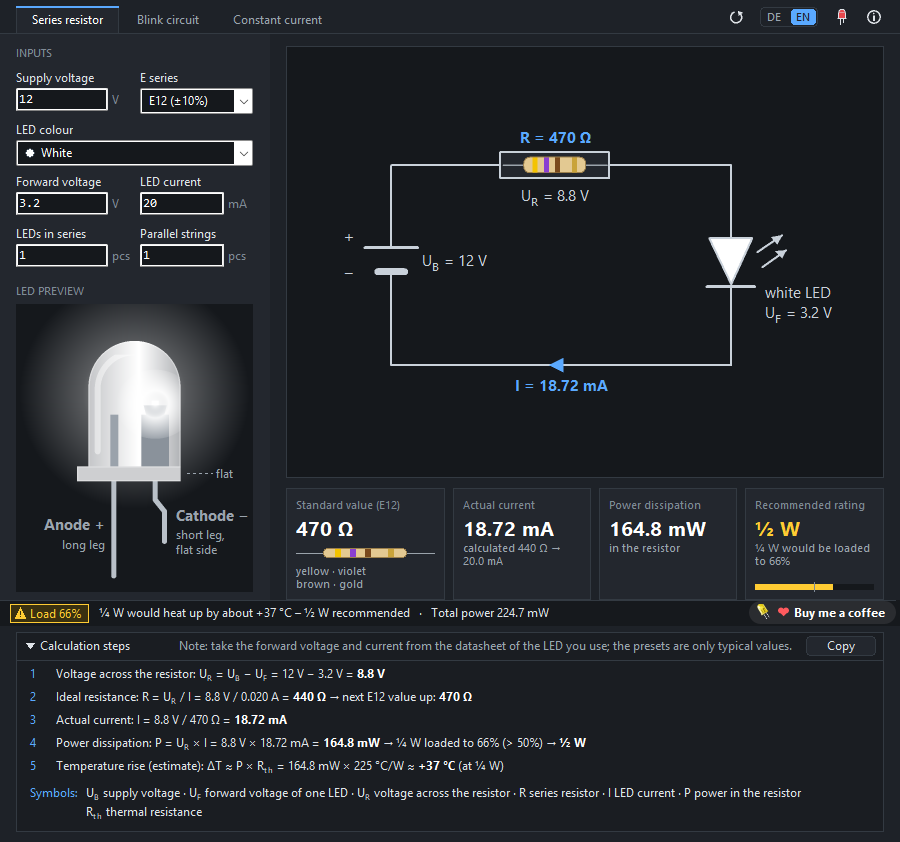
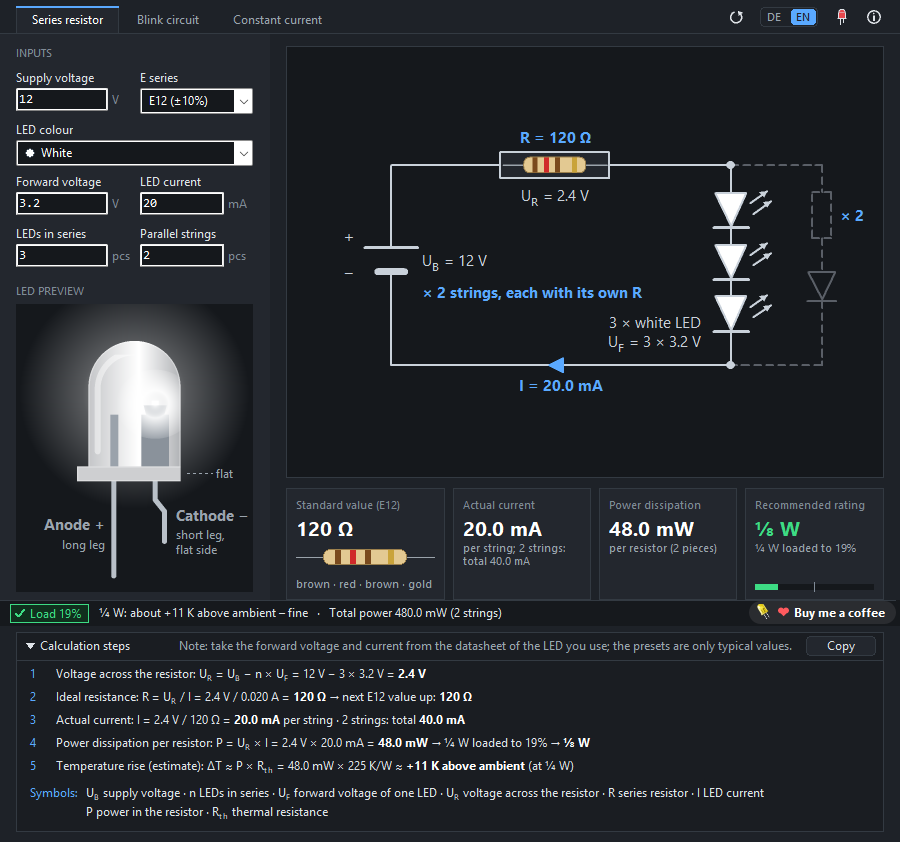
LedPreResistor 2.5: Schaltplan und Erwärmung im Text, neues Bild (#17)

diff --git a/de/index.html b/de/index.html
@@ -91,7 +91,7 @@
     <a href="https://elospeed.github.io/LedPreResistor/de/"><img src="../img/ledpreresistor.png" alt="LedPreResistor" loading="lazy"></a>
     <div>
       <h3>LedPreResistor</h3>
-      <p>Berechnet den Vorwiderstand für eine oder mehrere LEDs: Normwert aus E12, E24 oder E96, Farbringe, Verlustleistung und empfohlene Bauform, dazu eine Schätzung, wie warm er wird. Der Rechenweg zeigt die Rechnung Schritt für Schritt mit deinen eigenen Zahlen, und eine Seite über Leuchtdioden ist eingebaut. Seit 2.3 rechnet es auch Blinkschaltungen mit NE555 oder Multivibrator mit zwei Transistoren, aus den Bauteilen oder aus den gewünschten Zeiten. Seit 2.4 legt es auch Konstantstromquellen mit LM317 oder zwei Transistoren aus, für eine schwankende Speisespannung wie im Auto. Deutsch und Englisch, portabel, für Windows und als eigene Linux-Version.</p>
+      <p>Berechnet den Vorwiderstand für eine oder mehrere LEDs: Normwert aus E12, E24 oder E96, Farbringe, Verlustleistung und empfohlene Bauform, dazu eine Schätzung, wie warm er wird. Der Rechenweg zeigt die Rechnung Schritt für Schritt mit deinen eigenen Zahlen, und eine Seite über Leuchtdioden ist eingebaut. Seit 2.3 rechnet es auch Blinkschaltungen mit NE555 oder Multivibrator mit zwei Transistoren, aus den Bauteilen oder aus den gewünschten Zeiten. Seit 2.4 legt es auch Konstantstromquellen mit LM317 oder zwei Transistoren aus, für eine schwankende Speisespannung wie im Auto. Seit 2.5 zeichnet der Schaltplan LEDs in Reihe und Stränge parallel, und die Erwärmung steht als «ca. +X K über Umgebung» da. Deutsch und Englisch, portabel, für Windows und als eigene Linux-Version.</p>
       <div class="tags">LEDs · E12 / E24 / E96 · NE555 · Windows · Linux</div>
       <a class="btn" href="https://elospeed.github.io/LedPreResistor/de/">Zu LedPreResistor</a>
     </div>

diff --git a/index.html b/index.html
@@ -92,7 +92,7 @@
     <a href="https://elospeed.github.io/LedPreResistor/"><img src="img/ledpreresistor.png" alt="LedPreResistor" loading="lazy"></a>
     <div>
       <h3>LedPreResistor</h3>
-      <p>Calculates the series resistor for one or more LEDs: standard value from E12, E24 or E96, colour bands, power and recommended resistor size, with an estimate of how warm it gets. A step-by-step explanation shows the calculation with your own numbers, and a page about LEDs is built in. Since 2.3 it also calculates blink circuits with the NE555 or a two-transistor multivibrator, from the parts or from the times you want. Since 2.4 it also designs constant current sources with the LM317 or two transistors, for a supply that varies, for example in a car. English and German, portable, for Windows and natively for Linux.</p>
+      <p>Calculates the series resistor for one or more LEDs: standard value from E12, E24 or E96, colour bands, power and recommended resistor size, with an estimate of how warm it gets. A step-by-step explanation shows the calculation with your own numbers, and a page about LEDs is built in. Since 2.3 it also calculates blink circuits with the NE555 or a two-transistor multivibrator, from the parts or from the times you want. Since 2.4 it also designs constant current sources with the LM317 or two transistors, for a supply that varies, for example in a car. Since 2.5 the schematic draws LEDs in series and parallel strings, and the warming is shown as “about +X K above ambient”. English and German, portable, for Windows and natively for Linux.</p>
       <div class="tags">LEDs · E12 / E24 / E96 · NE555 · Windows · Linux</div>
       <a class="btn" href="https://elospeed.github.io/LedPreResistor/">To LedPreResistor</a>
     </div>
